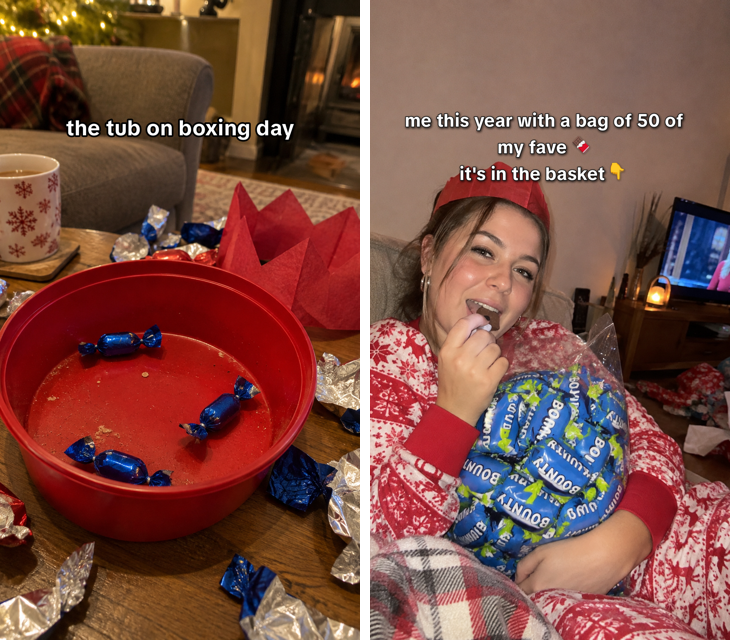
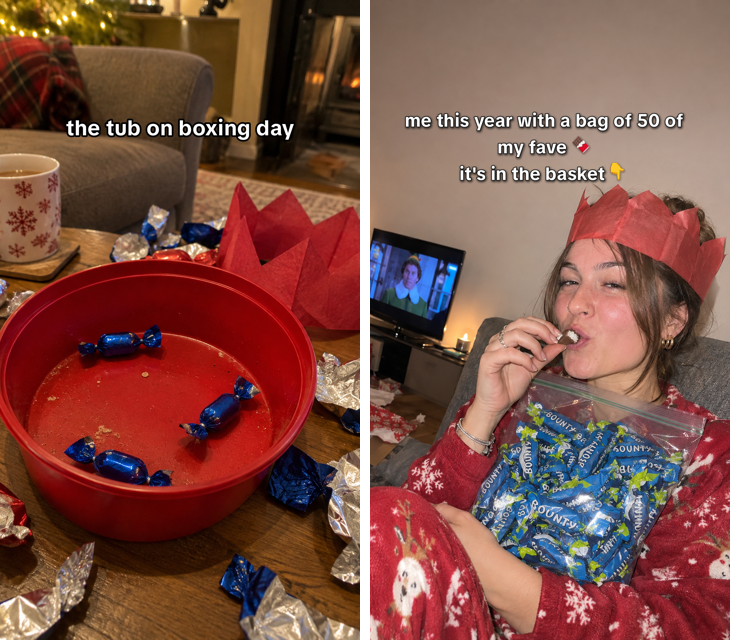
Celebrations photos redone at true mini size
Claude-Session: https://claude.ai/code/session_01Y5GtWbcZkKUEpsVxAierGo

diff --git a/skills/viral-slideshow-factory/references/recreate.md b/skills/viral-slideshow-factory/references/recreate.md
@@ -54,7 +54,7 @@ Never copy the face, hair or room of a model in the listing photo.
 Use TikTok Sans (in `fonts/`, used automatically) with emoji, lower-case and casual, the way a creator types ("my dad every single christmas 😭🙄"). Default size 52–56. Use `box` (black on white rounded boxes) on screenshots and busy photos, `outline` on photos with a plain area. Keep text off faces and off the product.
 
 ## True product size (the user's feedback, 7 Nov)
-AI photos get scale wrong (plushes drawn pillow-sized when they're hand-sized). For every product:
+AI photos get scale wrong (plushes drawn pillow-sized when they're hand-sized; Celebrations minis drawn like full-size bars when each is only 4-5cm, thumb-sized). Food minis, keyrings, jewellery and figures are the usual offenders. For every product:
 1. Find its real size: the listing title ("100ml", "250ml", "21.6cm", "keychain"), the listing's dimension pictures, and the original creator's photos where it sits next to a hand.
 2. Start every photo prompt with a SIZE line, e.g. "SIZE: about 20cm tall, roughly the length of an adult's hand, only a bit bigger than a drink can." Add a familiar object for scale (a hand, a can, a mug, a phone).
 3. When checking the result, compare the product with hands and furniture. If the scale is off, regenerate.
